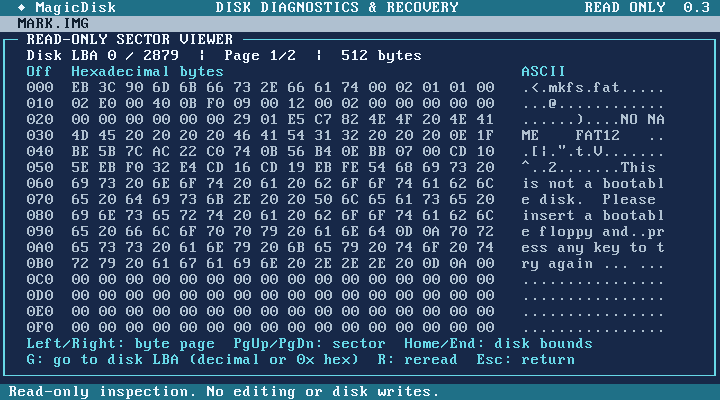
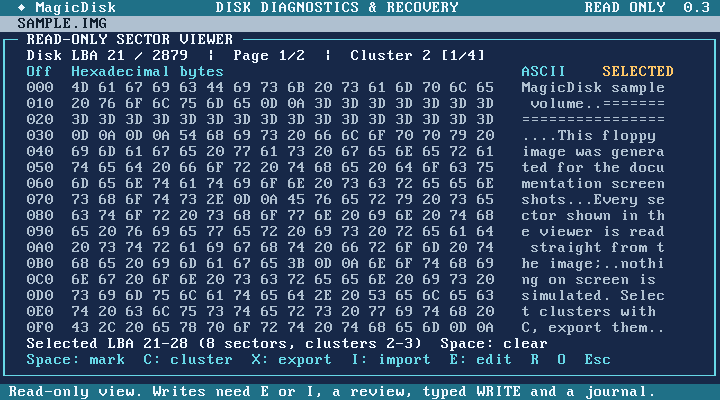
Refactored some screenshots

diff --git a/src/magicdisk/README.md b/src/magicdisk/README.md
@@ -190,7 +190,7 @@ Esc returns to the map. The header names the region holding the sector: the
 partition table, volume boot sector, reserved/FAT metadata, fixed root
 directory, or `Cluster N [i/spc]` for data sectors of the mounted volume.
 
-![MagicDisk read-only sector viewer](docs/sector-viewer.png)
+![MagicDisk sector viewer with a two-cluster selection](docs/sector-viewer.png)
 
 ### Select, export and import sectors or clusters
 
@@ -221,6 +221,8 @@ steps back and restores that byte, **F3** discards all edits and rereads the
 sector, and **Esc** leaves edit mode (asking first if edits are pending).
 PgUp/PgDn/Home/End are refused while edits are pending. Edits stay in memory
 until **F2**.
+
+![MagicDisk sector editor with pending hex and text edits](docs/sector-editor.png)
 
 ### Writing and undoing raw edits
 
